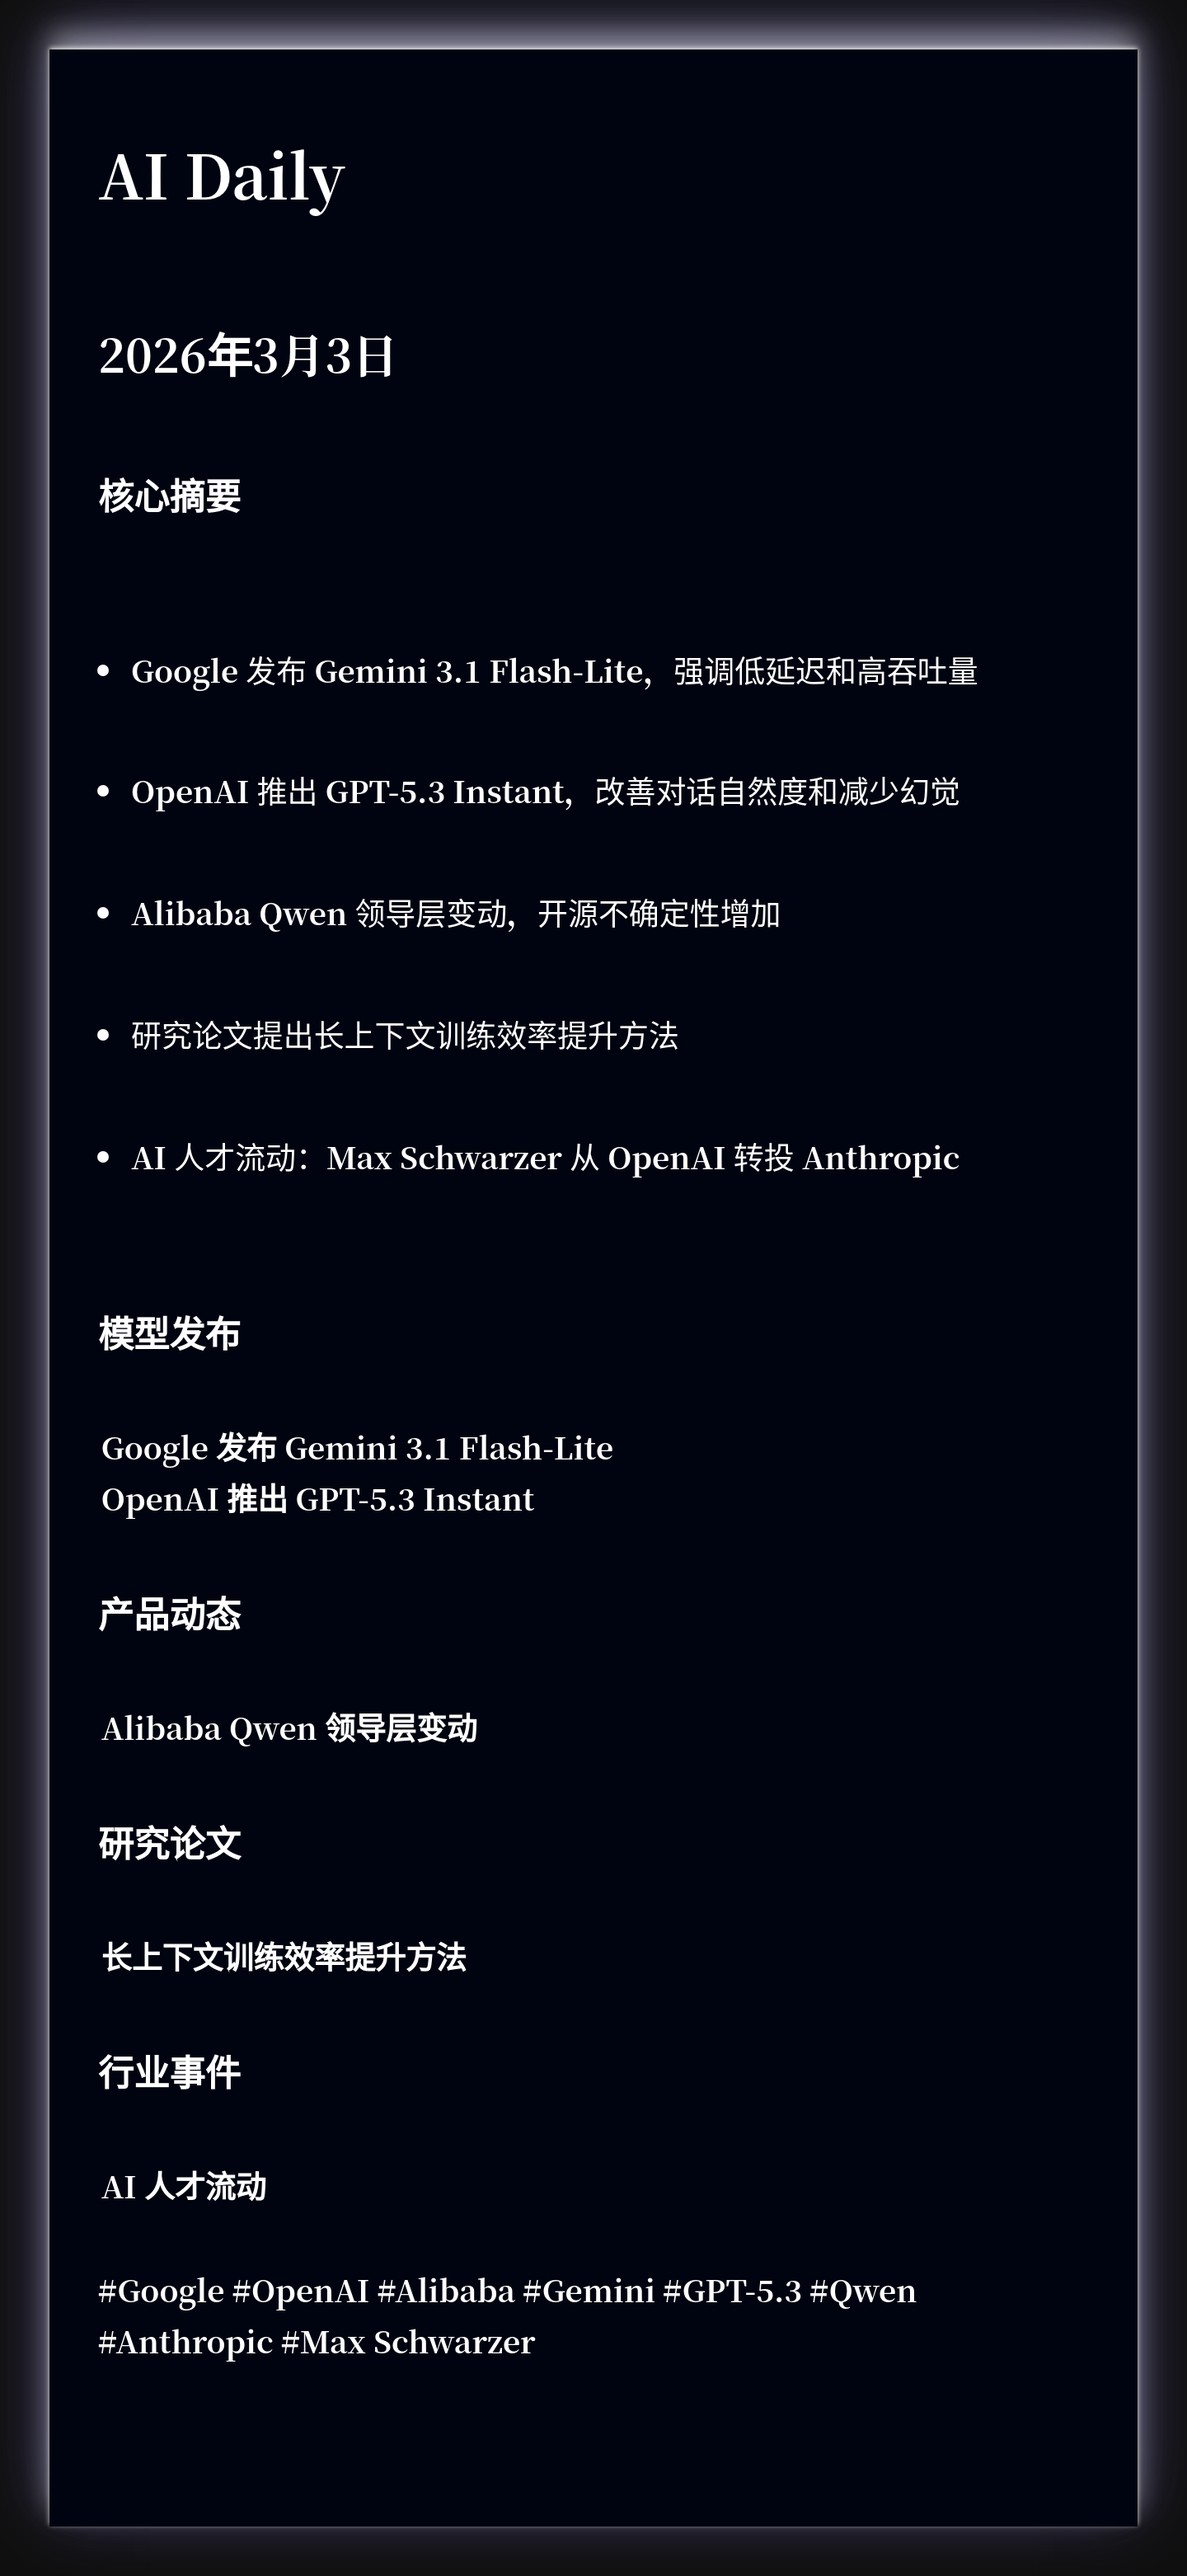
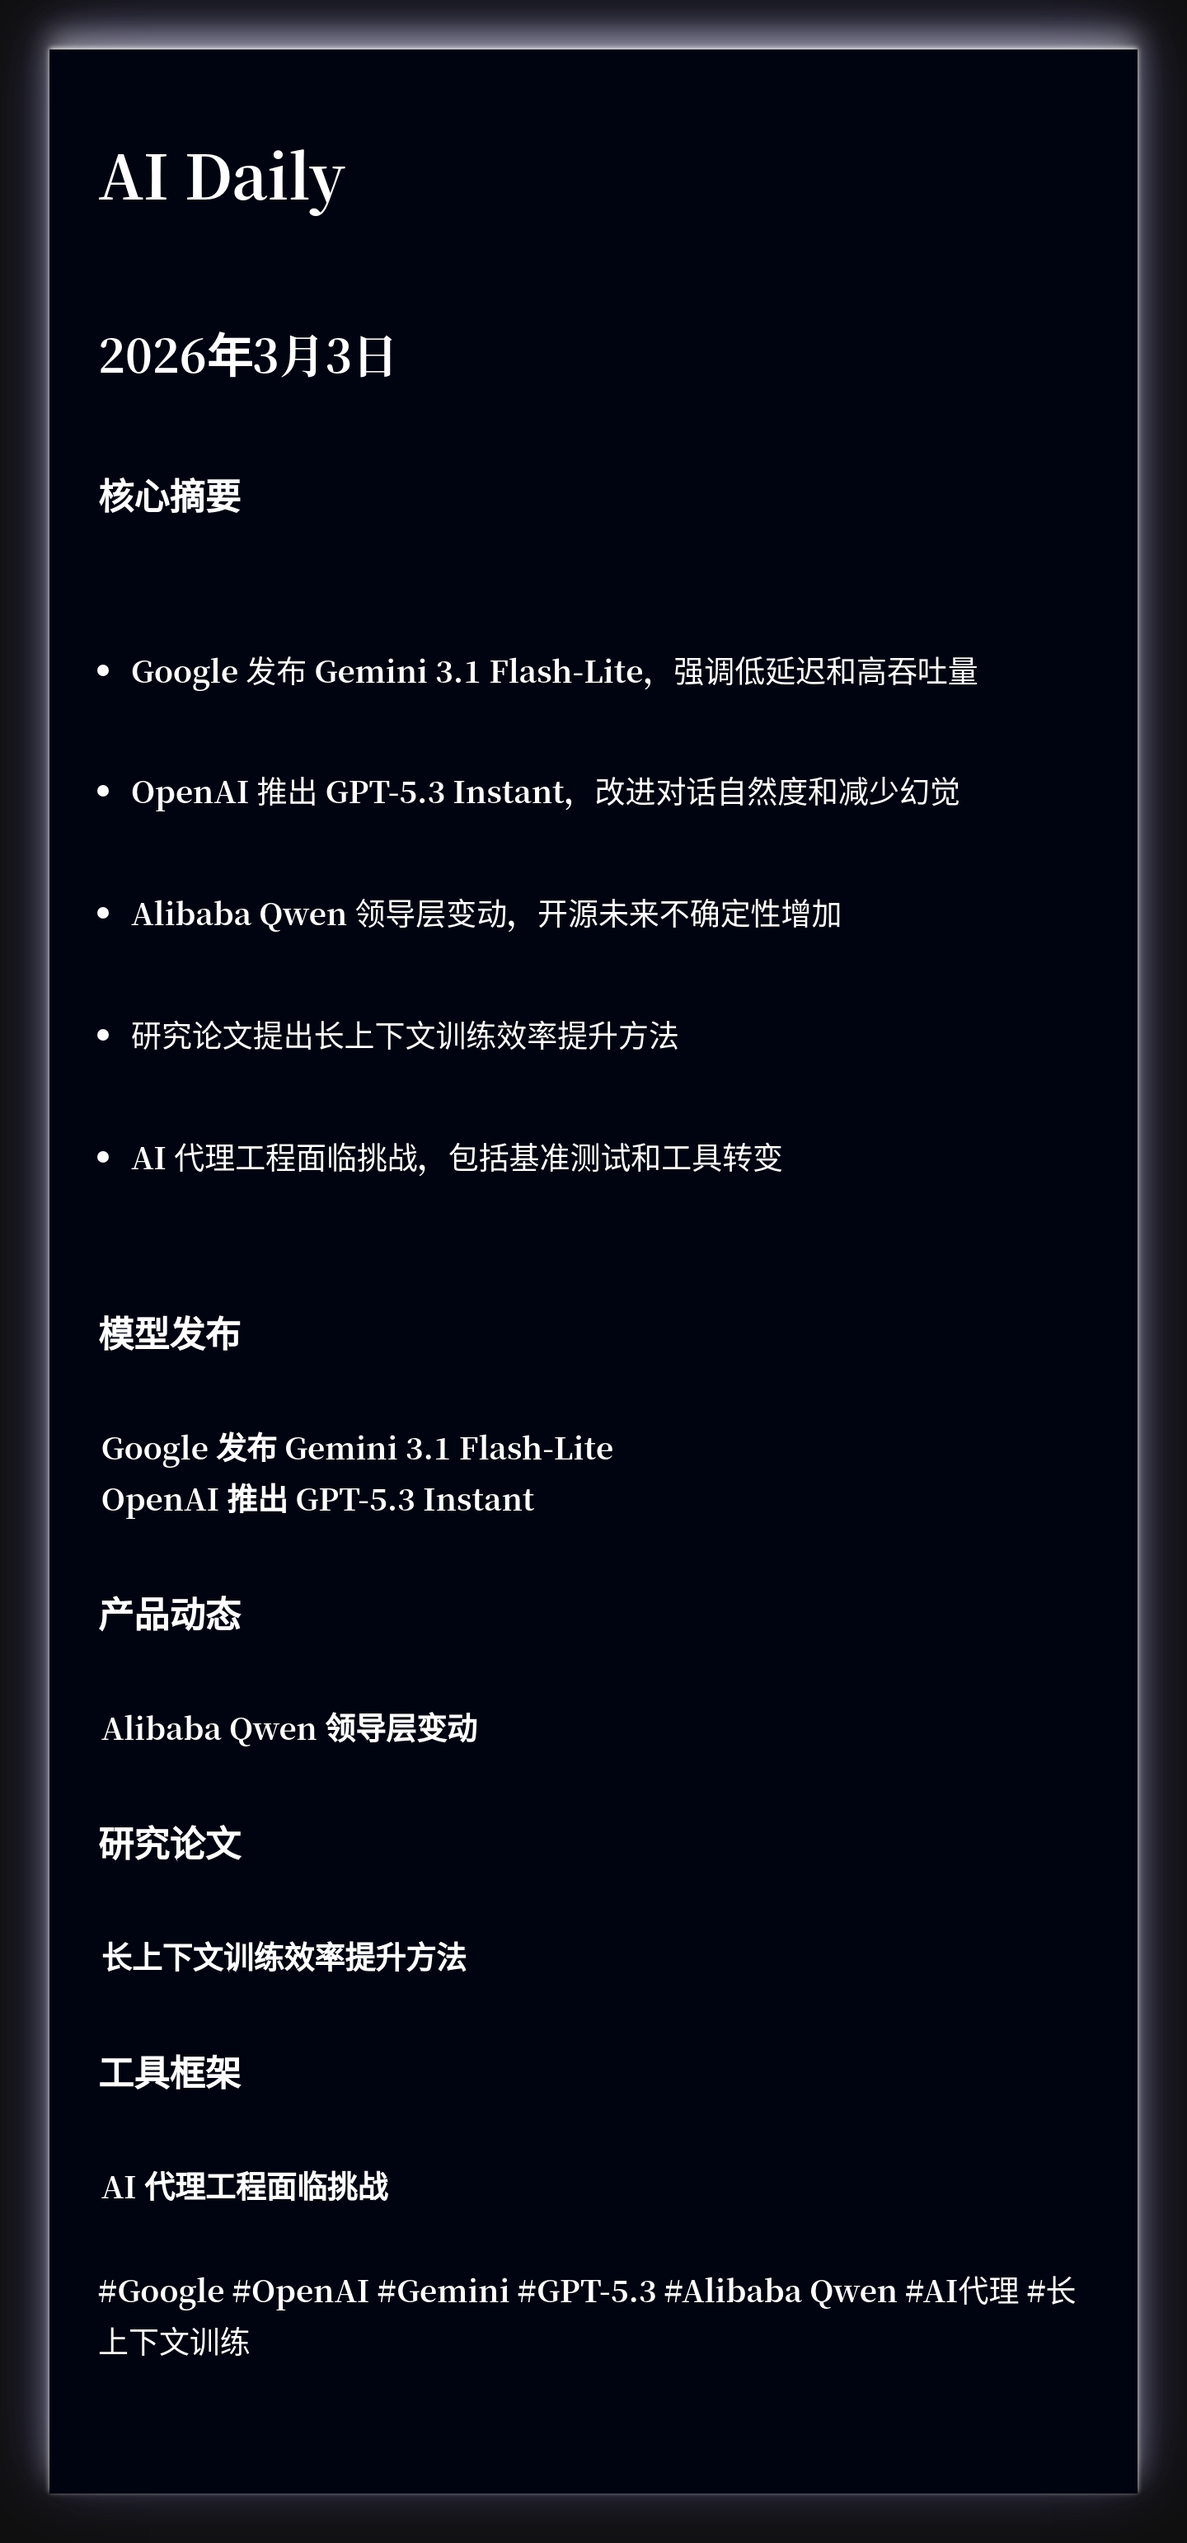
🤖 Auto update AI Daily - {{ date }} ddcd8d71484ae12127af790c945bac8f0ef651e9

diff --git a/2026-03-03.html b/2026-03-03.html
@@ -5,10 +5,10 @@
     <meta name="viewport" content="width=device-width, initial-scale=1.0">
     <title>AI Daily · 2026年3月3日 星期二</title>
     <meta name="description" content="每日 AI 前沿资讯，智能分类，快速掌握核心动态">
-    <meta name="keywords" content="Google, OpenAI, Alibaba, Gemini, GPT-5.3, Qwen, Anthropic, Max Schwarzer, AI, 人工智能, 机器学习, 深度学习, 资讯, 日报">
+    <meta name="keywords" content="Google, OpenAI, Gemini, GPT-5.3, Alibaba Qwen, AI代理, 长上下文训练, AI, 人工智能, 机器学习, 深度学习, 资讯, 日报">
     <link rel="stylesheet" href="css/styles.css">
 </head>
-<body data-theme="indigo">
+<body data-theme="blue">
     <div class="background-glow"></div>
     <div class="geometric-lines"></div>
 
@@ -25,10 +25,10 @@
                 <h2 class="section-title">📌 今日核心摘要</h2>
                 <ul class="summary-list">
                 <li class="summary-item">Google 发布 Gemini 3.1 Flash-Lite，强调低延迟和高吞吐量</li>
-                <li class="summary-item">OpenAI 推出 GPT-5.3 Instant，改善对话自然度和减少幻觉</li>
-                <li class="summary-item">Alibaba Qwen 领导层变动，开源不确定性增加</li>
+                <li class="summary-item">OpenAI 推出 GPT-5.3 Instant，改进对话自然度和减少幻觉</li>
+                <li class="summary-item">Alibaba Qwen 领导层变动，开源未来不确定性增加</li>
                 <li class="summary-item">研究论文提出长上下文训练效率提升方法</li>
-                <li class="summary-item">AI 人才流动：Max Schwarzer 从 OpenAI 转投 Anthropic</li>
+                <li class="summary-item">AI 代理工程面临挑战，包括基准测试和工具转变</li>
                 </ul>
             </section>
 
@@ -46,8 +46,8 @@
                         <h3 class="news-title">Google 发布 Gemini 3.1 Flash-Lite</h3>
                         <a href="https://news.smol.ai/issues/26-03-03-not-much/" class="item-link" target="_blank" rel="noopener">详情</a>
                     </div>
-                    <p class="news-summary">Google 发布新的 Gemini 3.1 Flash-Lite 模型，强调低延迟和高吞吐量，适用于大规模工作负载。</p>
-                    <div class="item-tags"><span class="tag">#Google</span> <span class="tag">#Gemini</span> <span class="tag">#Flash-Lite</span></div>
+                    <p class="news-summary">Google 发布最新模型，强调低延迟和高吞吐量</p>
+                    <div class="item-tags"><span class="tag">#Google</span> <span class="tag">#Gemini</span> <span class="tag">#模型发布</span></div>
                 </article>
 
                 <article class="news-card">
@@ -55,8 +55,8 @@
                         <h3 class="news-title">OpenAI 推出 GPT-5.3 Instant</h3>
                         <a href="https://news.smol.ai/issues/26-03-03-not-much/" class="item-link" target="_blank" rel="noopener">详情</a>
                     </div>
-                    <p class="news-summary">OpenAI 推出改进的 GPT-5.3 Instant，提升对话自然度，减少不必要的拒绝和防御性声明。</p>
-                    <div class="item-tags"><span class="tag">#OpenAI</span> <span class="tag">#GPT-5.3</span> <span class="tag">#Instant</span></div>
+                    <p class="news-summary">OpenAI 推出改进版 GPT-5.3，提升对话自然度和减少幻觉</p>
+                    <div class="item-tags"><span class="tag">#OpenAI</span> <span class="tag">#GPT-5.3</span> <span class="tag">#模型发布</span></div>
                 </article>
 
                 </div>
@@ -75,8 +75,8 @@
                         <h3 class="news-title">Alibaba Qwen 领导层变动</h3>
                         <a href="https://news.smol.ai/issues/26-03-03-not-much/" class="item-link" target="_blank" rel="noopener">详情</a>
                     </div>
-                    <p class="news-summary">Alibaba Qwen 领导层发生变动，引发开源不确定性和技术社区关注。</p>
-                    <div class="item-tags"><span class="tag">#Alibaba</span> <span class="tag">#Qwen</span> <span class="tag">#领导层变动</span></div>
+                    <p class="news-summary">Alibaba Qwen 领导层变动，开源未来不确定性增加</p>
+                    <div class="item-tags"><span class="tag">#Alibaba</span> <span class="tag">#Qwen</span> <span class="tag">#产品动态</span></div>
                 </article>
 
                 </div>
@@ -95,8 +95,8 @@
                         <h3 class="news-title">长上下文训练效率提升方法</h3>
                         <a href="https://news.smol.ai/issues/26-03-03-not-much/" class="item-link" target="_blank" rel="noopener">详情</a>
                     </div>
-                    <p class="news-summary">研究论文提出通过混合上下文并行和序列并行式头部分块，大幅降低长上下文训练的注意力内存占用。</p>
-                    <div class="item-tags"><span class="tag">#研究</span> <span class="tag">#长上下文</span> <span class="tag">#训练效率</span></div>
+                    <p class="news-summary">研究论文提出长上下文训练效率提升方法</p>
+                    <div class="item-tags"><span class="tag">#研究</span> <span class="tag">#长上下文训练</span> <span class="tag">#论文</span></div>
                 </article>
 
                 </div>
@@ -104,19 +104,19 @@
 
             <section class="category-section">
                 <div class="category-header">
-                    <span class="category-icon">🏆</span>
-                    <h2 class="category-title">行业事件</h2>
+                    <span class="category-icon">🛠</span>
+                    <h2 class="category-title">工具框架</h2>
                     <span class="category-count">1</span>
                 </div>
                 <div class="news-grid">
 
                 <article class="news-card">
                     <div class="news-card-header">
-                        <h3 class="news-title">AI 人才流动</h3>
+                        <h3 class="news-title">AI 代理工程面临挑战</h3>
                         <a href="https://news.smol.ai/issues/26-03-03-not-much/" class="item-link" target="_blank" rel="noopener">详情</a>
                     </div>
-                    <p class="news-summary">Max Schwarzer 从 OpenAI 转投 Anthropic，引发业界对 AI 人才流动的关注。</p>
-                    <div class="item-tags"><span class="tag">#人才流动</span> <span class="tag">#Max Schwarzer</span> <span class="tag">#OpenAI</span> <span class="tag">#Anthropic</span></div>
+                    <p class="news-summary">AI 代理工程面临基准测试和工具转变等挑战</p>
+                    <div class="item-tags"><span class="tag">#AI代理</span> <span class="tag">#工具框架</span> <span class="tag">#挑战</span></div>
                 </article>
 
                 </div>
@@ -124,7 +124,7 @@
 
 
         <footer class="keywords-footer">
-            <p>#关键词: Google | OpenAI | Alibaba | Gemini | GPT-5.3 | Qwen | Anthropic | Max Schwarzer</p>
+            <p>#关键词: Google | OpenAI | Gemini | GPT-5.3 | Alibaba Qwen | AI代理 | 长上下文训练</p>
         </footer>
 
         </main>

diff --git a/xiaohongshu/xhs-2026-03-03.html b/xiaohongshu/xhs-2026-03-03.html
@@ -329,7 +329,7 @@
                 <!-- 底部区域 -->
                 <div class="bottom-section">
                     <div class="keywords">
-                        <span class="keyword-tag">#Google</span><span class="keyword-tag">#OpenAI</span><span class="keyword-tag">#Alibaba</span><span class="keyword-tag">#Gemini</span><span class="keyword-tag">#GPT-5.3</span>
+                        <span class="keyword-tag">#Google</span><span class="keyword-tag">#OpenAI</span><span class="keyword-tag">#Gemini</span><span class="keyword-tag">#GPT-5.3</span><span class="keyword-tag">#Alibaba Qwen</span>
                     </div>
                     <div class="account-info">
                         <div class="account-name">极客杰尼</div>
